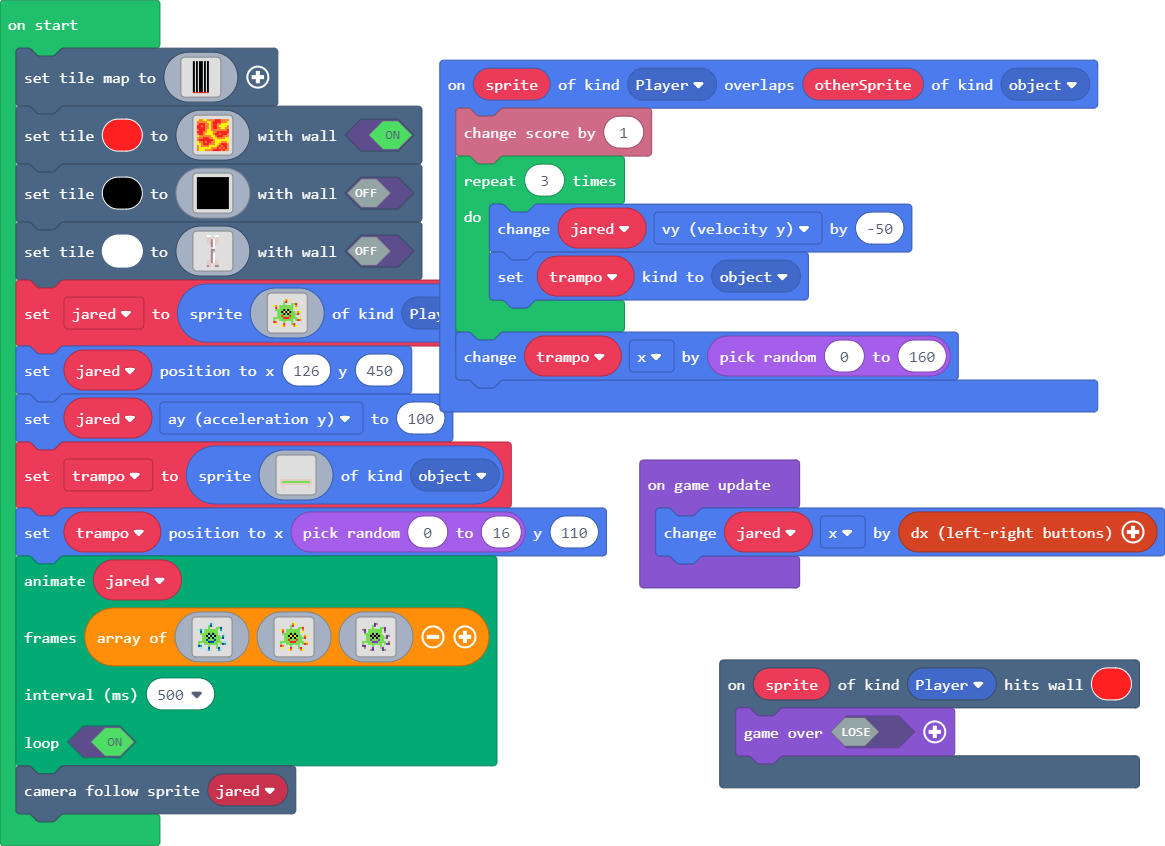
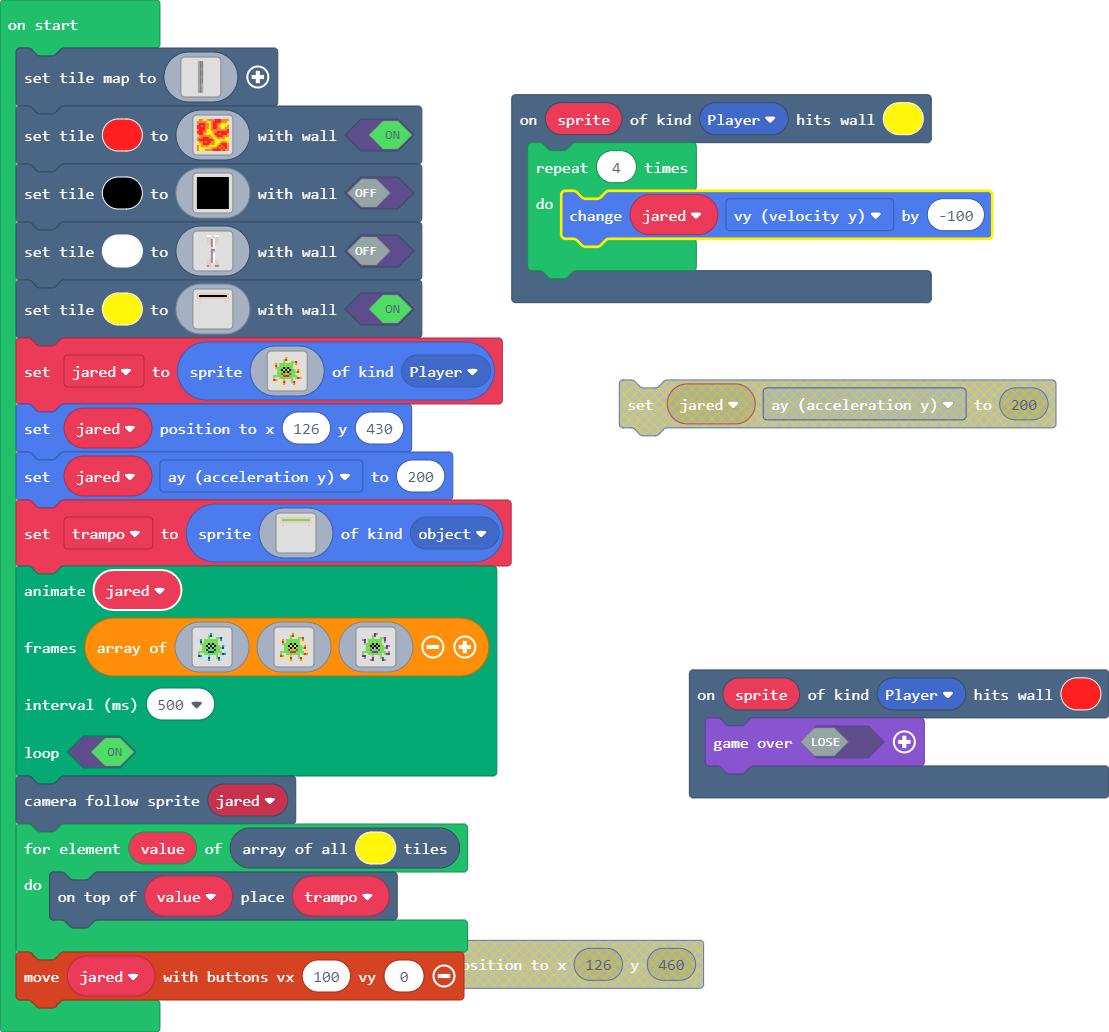
Update main.blocks, main.ts

diff --git a/main.ts b/main.ts
@@ -1,51 +1,115 @@
 namespace SpriteKind {
     export const object = SpriteKind.create()
 }
+scene.onHitTile(SpriteKind.Player, 5, function (sprite) {
+    for (let index = 0; index < 4; index++) {
+        jared.vy += -100
+    }
+})
 scene.onHitTile(SpriteKind.Player, 2, function (sprite) {
     game.over(false)
 })
-sprites.onOverlap(SpriteKind.Player, SpriteKind.object, function (sprite, otherSprite) {
-    info.changeScoreBy(1)
-    for (let index = 0; index < 3; index++) {
-        jared.vy += -50
-        trampo.setKind(SpriteKind.object)
-    }
-    trampo.x += Math.randomRange(0, 160)
-})
-let trampo: Sprite = null
 let jared: Sprite = null
 scene.setTileMap(img`
-f f 1 f f 1 f f f f 1 f f 1 f f 
-f f 1 f f 1 f f f f 1 f f 1 f f 
-f f 1 f f 1 f f f f 1 f f 1 f f 
-f f 1 f f 1 f f f f 1 f f 1 f f 
-f f 1 f f 1 f f f f 1 f f 1 f f 
-f f 1 f f 1 f f f f 1 f f 1 f f 
-f f 1 f f 1 f f f f 1 f f 1 f f 
-f f 1 f f 1 f f f f 1 f f 1 f f 
-f f 1 f f 1 f f f f 1 f f 1 f f 
-f f 1 f f 1 f f f f 1 f f 1 f f 
-f f 1 f f 1 f f f f 1 f f 1 f f 
-f f 1 f f 1 f f f f 1 f f 1 f f 
-f f 1 f f 1 f f f f 1 f f 1 f f 
-f f 1 f f 1 f f f f 1 f f 1 f f 
-f f 1 f f 1 f f f f 1 f f 1 f f 
-f f 1 f f 1 f f f f 1 f f 1 f f 
-f f 1 f f 1 f f f f 1 f f 1 f f 
-f f 1 f f 1 f f f f 1 f f 1 f f 
-f f 1 f f 1 f f f f 1 f f 1 f f 
-f f 1 f f 1 f f f f 1 f f 1 f f 
-f f 1 f f 1 f f f f 1 f f 1 f f 
-f f 1 f f 1 f f f f 1 f f 1 f f 
-f f 1 f f 1 f f f f 1 f f 1 f f 
-f f 1 f f 1 f f f f 1 f f 1 f f 
-f f 1 f f 1 f f f f 1 f f 1 f f 
-f f 1 f f 1 f f f f 1 f f 1 f f 
-f f 1 f f 1 f f f f 1 f f 1 f f 
-f f 1 f f 1 f f f f 1 f f 1 f f 
-f f 1 f f 1 f f f f 1 f f 1 f f 
-f f 1 f f 1 f f f f 1 f f 1 f f 
-f f 1 f f 1 f f f f 1 f f 1 f f 
+f 1 f f f 1 f f f 1 f f f f f f 
+f 1 f f f 1 f f f f 1 f f f f f 
+f 1 f f f 1 f f f f 1 f f f f f 
+f 1 f f f 1 f f f f 1 f f f f f 
+f 1 f f f 1 f f f f 1 f f f f f 
+f 1 f f f 1 f f f f 1 f f f f f 
+f 1 f f f 1 f f f f 1 f f f f f 
+f 1 f f f 1 f f f f 1 f f f f f 
+f 1 f f f 1 f f f f 1 f f f f f 
+f 1 f f f 1 f f f f 1 f f f f f 
+f 1 f f f 1 f f f f 1 f f f f f 
+f 1 f f f 1 f f f f 1 f f f f f 
+f 1 f f f 1 f f f f 1 f f f f f 
+f 1 f f f 1 f f f f 1 f f f f f 
+f 1 f f f 1 f f f f 1 f f f f f 
+f 1 f f f 1 f f f f 1 f f f f f 
+f 1 f f f 1 f f f f 1 f f f f f 
+f 1 f f f 1 f f f f 1 f f f f f 
+f 1 f f f 1 f f f f 1 f f f f f 
+f 1 f f f 1 f f f f 1 f f f f f 
+f 1 f f f 1 f f f f 1 f f f f f 
+f 1 f f f 1 f f f f 1 f f f f f 
+f 1 f f f 1 f f f f 1 f f f f f 
+f 1 f f f 1 f f f f 1 f f f f f 
+f 1 f f f 1 f f f f 1 f f f f f 
+f 1 f f f 1 f f f f 1 f f f f f 
+f 1 f f f 1 f f f f 1 f f f f f 
+f 1 f f f 1 f f f f 1 f f f f f 
+f 1 f f f 1 f f f f 1 f f f f f 
+f 1 f f f 1 f f f f 1 f f f f f 
+f 1 f f f 1 f f f f 1 f f f f f 
+f 1 f f f 1 f f f f 1 f f f f f 
+f 1 f f f 1 f f f f 1 f f f f f 
+f 1 f f f 1 f f f f 1 f f f f f 
+f 1 f f f 1 f f f f 1 f f f f f 
+f 1 f f f 1 f f f f 1 f f f f f 
+f 1 f f f 1 f f f f 1 f f f f f 
+f 1 f f f 1 f f f f 1 f f f f f 
+f 1 f f f 1 f f f f 1 f f f f f 
+f 1 f f f 1 f f f f 1 f f f f f 
+f 1 f f f 1 f f f f 1 f f f f f 
+f 1 f f f 1 f f f f 1 f f f f f 
+f 1 f f f 1 f f f f 1 f f f f f 
+f 1 f f f 1 f f f f 1 f f f f f 
+f 1 f f f 1 f f f f 1 f f f f f 
+f 1 f f f 1 f f f f 1 f f f f f 
+f 1 f f f 1 f f f f 1 f f f f f 
+f 1 f f f 1 f f f f 1 f f f f f 
+f 1 f f f 1 f f f f 1 f f f f f 
+f 1 f f f 1 f f f f 1 f f f f f 
+f 1 f f f 1 f f f f 1 f f f f f 
+f 1 f f f 1 f f f f 1 f f f f f 
+f 1 f f f 1 f f f f 1 f f f f f 
+f 1 f f f 1 f f f f 1 f f f f f 
+f 1 f f f 1 f f f f 1 f f f f f 
+f 1 f f f 1 f f f f 1 f f f f f 
+f 1 f f f 1 f f f f 1 f f f f f 
+f 1 f f f 1 f f f f 1 f f f f f 
+f 1 f f f 1 f f f f 1 f f f f f 
+f 1 f f f 1 f f f f 1 f f f f f 
+f 1 f f f 1 f f f f 1 f f f f f 
+f 1 f f f 1 f f f f 1 f f f f f 
+f 1 f f f 1 f f f f 1 f f f f f 
+f 1 f f f 1 f f f f 1 f f f f f 
+f 1 f f f 1 f f f f 1 f f f f f 
+f 1 f f f 1 f f f f 1 f f f f f 
+f 1 f f f 1 f f f f 1 f f f f f 
+f 1 f f f 1 f f f f 1 f f f f f 
+f 1 f f f 1 f f f f 1 f f f 1 f 
+f 1 f f f 1 f 5 f f 1 f f f 1 f 
+f 1 f f f 1 f f f f 1 f f f 1 f 
+f 1 f f f 1 f f f f 1 f f f 1 f 
+f 1 f f f 1 f f f 5 1 f f f 1 f 
+f 1 f f f 1 f f f f 1 f f f 1 f 
+f 1 f f f 1 f f f f 1 f f f 1 f 
+f 1 f f f 1 f f f f 1 f f 5 1 f 
+f 1 f f f 1 f f f f 1 f f f 1 f 
+f 1 f f f 1 f f 5 f 1 f f f 1 f 
+f 1 f f f 1 f f f f 1 f f f 1 f 
+f 1 f 5 f 1 f f f f 1 f f f 1 f 
+f 1 f f f 1 f f f f 1 f f f 1 f 
+f 1 f f f 1 f f f f 1 f f f 1 f 
+f 1 f f f 1 f f f f 1 f f f 1 f 
+f 1 f f f 1 f 5 f f 1 f f f 1 f 
+f 1 f f f 1 f f f f 1 f f f 1 f 
+f 1 f f f 1 f f f f 1 f f f 1 f 
+f 1 f 5 f 1 f f f f 1 f f f 1 f 
+f 1 f f f 1 f f f f 1 f f f 1 f 
+f 1 f f f 1 f 5 f f 1 f f f 1 f 
+f 1 f f f 1 f f f f 1 f f f 1 f 
+f 1 f f f 1 f f f f 1 f f f 1 f 
+f 1 f f f 1 f f f f 1 f 5 f 1 f 
+f 1 f f f 1 f f f f 1 f f f 1 f 
+f 1 f f f 1 f f f f 1 f f f 1 f 
+f 1 f f f 1 f f f f 1 f f f 1 f 
+f 1 f f f 1 f f f f 1 f f f 1 f 
+f 1 f f f 1 f f f f 1 f f f 1 f 
+f 1 f f f 1 f 5 f f 1 f f f 1 f 
+f 1 f f f 1 f f f f 1 f f f 1 f 
 2 2 2 2 2 2 2 2 2 2 2 2 2 2 2 2 
 `)
 scene.setTile(2, img`
@@ -102,6 +166,24 @@ scene.setTile(1, img`
 . . . . . d d . . d d . . . . . 
 . . . . . b d . . b b . . . . . 
 `, false)
+scene.setTile(5, img`
+d d d d d d d d d d d d d d d d 
+d f f f f f f f f f f f f f f d 
+d d d d d d d d d d d d d d d d 
+. d . . . . . . . . . . . . d . 
+. d . . . . . . . . . . . . d . 
+. . . . . . . . . . . . . . . . 
+. . . . . . . . . . . . . . . . 
+. . . . . . . . . . . . . . . . 
+. . . . . . . . . . . . . . . . 
+. . . . . . . . . . . . . . . . 
+. . . . . . . . . . . . . . . . 
+. . . . . . . . . . . . . . . . 
+. . . . . . . . . . . . . . . . 
+. . . . . . . . . . . . . . . . 
+. . . . . . . . . . . . . . . . 
+. . . . . . . . . . . . . . . . 
+`, true)
 jared = sprites.create(img`
 . . . . . . . . . . . . . . . . 
 . . . . . . . 4 5 . . . . . . . 
@@ -120,27 +202,26 @@ jared = sprites.create(img`
 . . . . . 5 4 . . . . 4 5 . . . 
 . . . . . . . . . . . . . . . . 
 `, SpriteKind.Player)
-jared.setPosition(126, 450)
-jared.ay = 100
-trampo = sprites.create(img`
-. . . . . . . . . . . . . . . . 
-. . . . . . . . . . . . . . . . 
-. . . . . . . . . . . . . . . . 
-. . . . . . . . . . . . . . . . 
-. . . . . . . . . . . . . . . . 
-. . . . . . . . . . . . . . . . 
-. . . . . . . . . . . . . . . . 
-. . . . . . . . . . . . . . . . 
-. . . . . . . . . . . . . . . . 
-. . . . . . . . . . . . . . . . 
+jared.setPosition(126, 430)
+jared.ay = 200
+let trampo = sprites.create(img`
 d d d d d d d d d d d d d d d d 
 d 7 7 7 7 7 7 7 7 7 7 7 7 7 7 d 
 d d d d d d d d d d d d d d d d 
 . d . . . . . . . . . . . . d . 
 . d . . . . . . . . . . . . d . 
 . . . . . . . . . . . . . . . . 
+. . . . . . . . . . . . . . . . 
+. . . . . . . . . . . . . . . . 
+. . . . . . . . . . . . . . . . 
+. . . . . . . . . . . . . . . . 
+. . . . . . . . . . . . . . . . 
+. . . . . . . . . . . . . . . . 
+. . . . . . . . . . . . . . . . 
+. . . . . . . . . . . . . . . . 
+. . . . . . . . . . . . . . . . 
+. . . . . . . . . . . . . . . . 
 `, SpriteKind.object)
-trampo.setPosition(Math.randomRange(0, 16), 110)
 animation.runImageAnimation(
 jared,
 [img`
@@ -199,6 +280,7 @@ jared,
 true
 )
 scene.cameraFollowSprite(jared)
-game.onUpdate(function () {
-    jared.x += controller.dx()
-})
+for (let value of scene.getTilesByType(5)) {
+    scene.place(value, trampo)
+}
+controller.moveSprite(jared, 100, 0)
